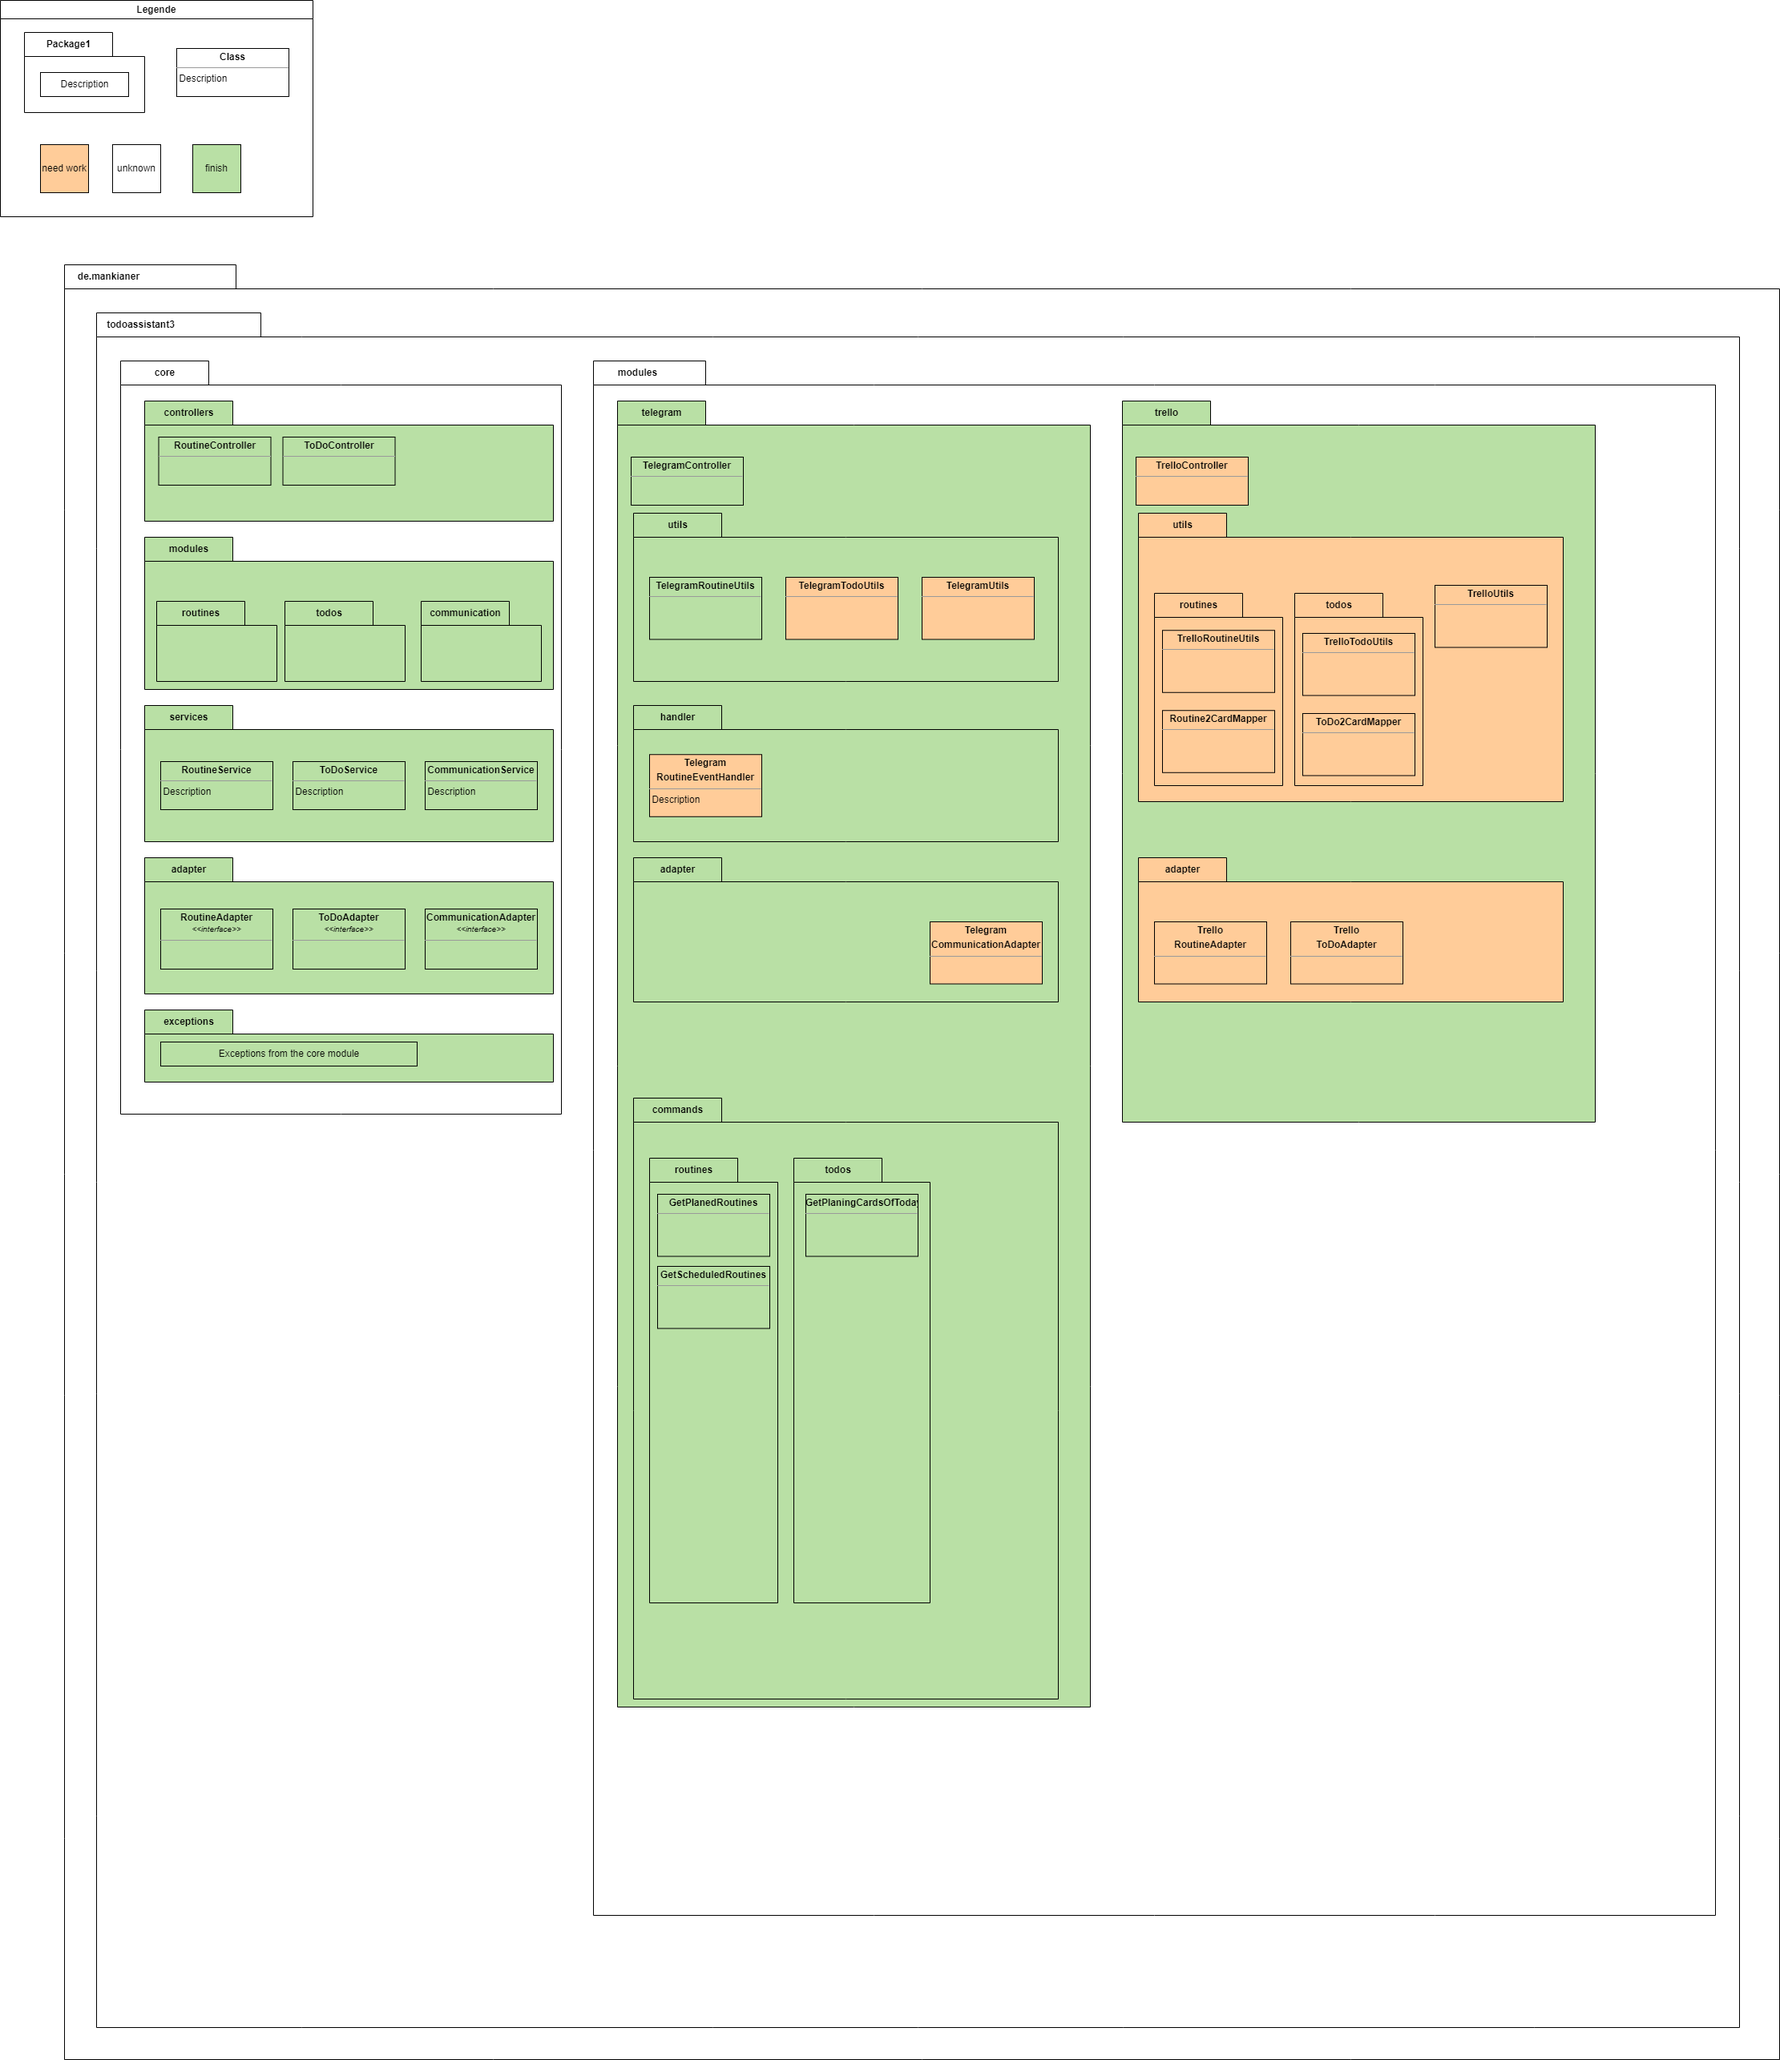
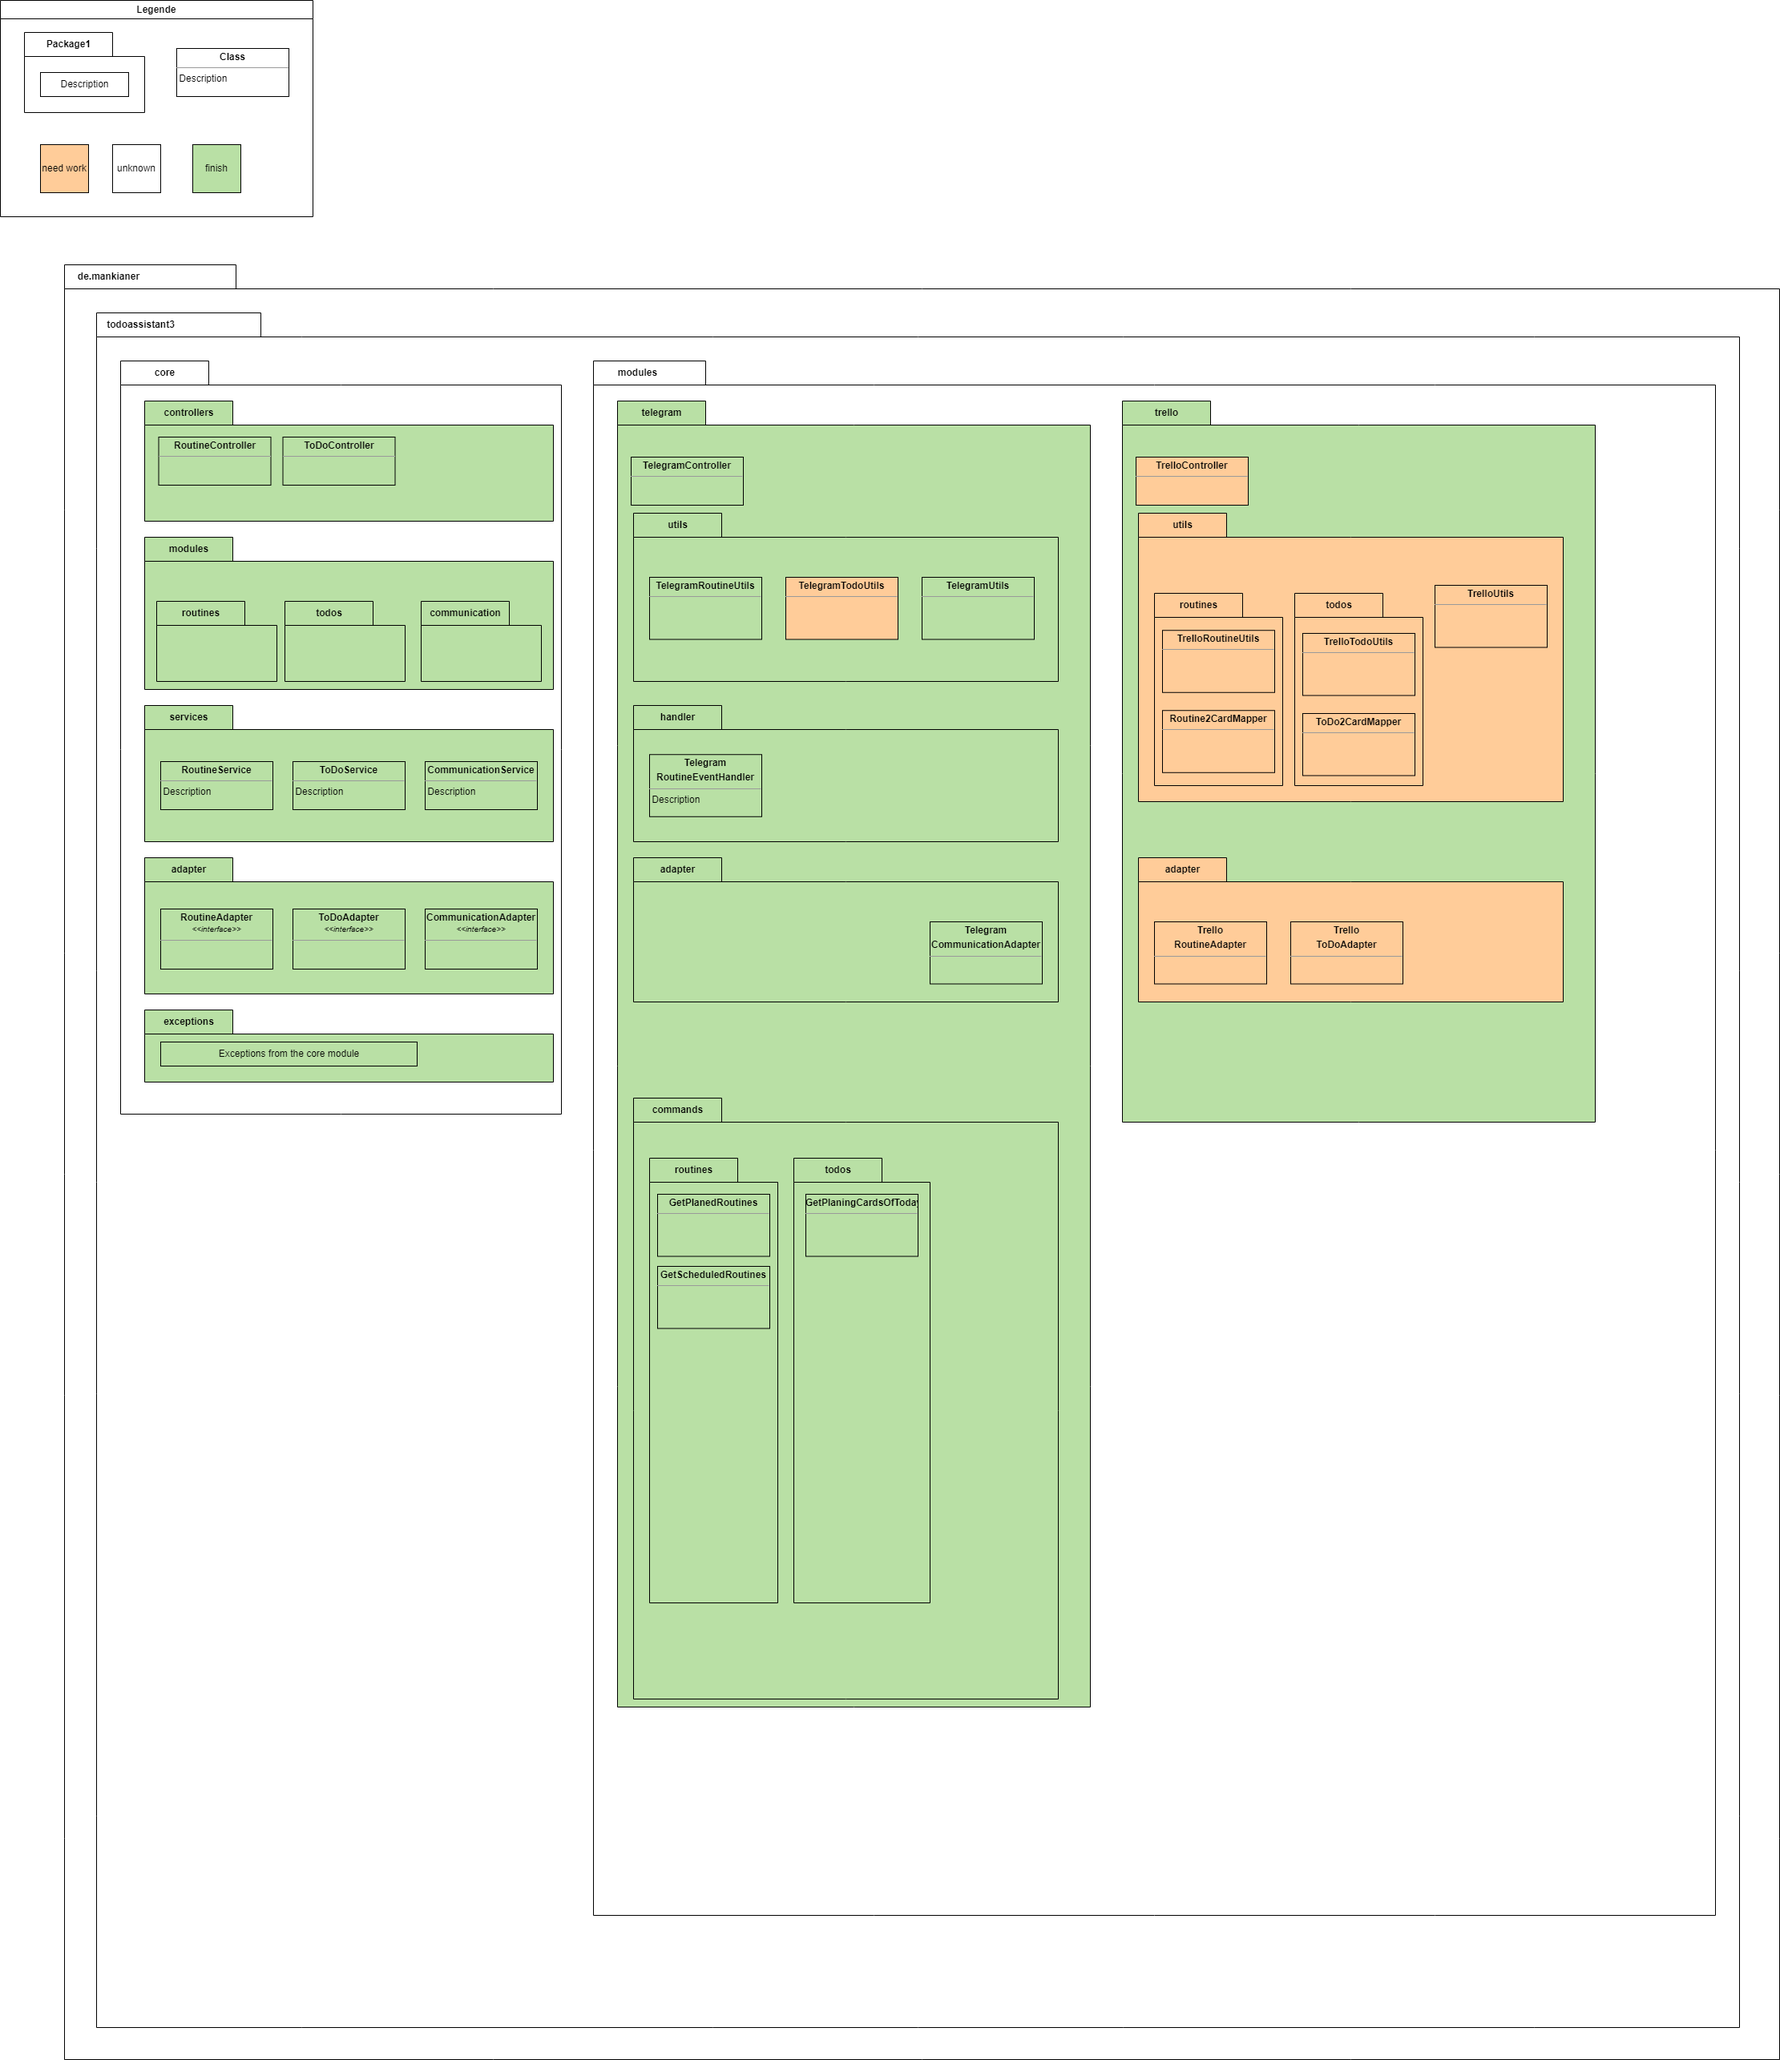
refactor Telegram-packages

Changed region(s): [[0.4971, 0.4356, 0.5903, 0.4979], [0.3417, 0.3423, 0.4349, 0.4045], [0.4971, 0.28, 0.5903, 0.3112]]

diff --git a/src/main/java/de/mankianer/todoassistant3/modules/telegram/TelegramController.java b/src/main/java/de/mankianer/todoassistant3/modules/telegram/TelegramController.java
@@ -2,22 +2,17 @@ package de.mankianer.todoassistant3.modules.telegram;
 
 import de.mankianer.mankianerstelegramspringstarter.TelegramService;
 import de.mankianer.mankianerstelegramspringstarter.commands.models.TelegramInUpdate;
-import de.mankianer.todoassistant3.core.adapter.CommunicationAdapter;
 import de.mankianer.todoassistant3.core.exceptions.CouldNotCreateException;
-import de.mankianer.todoassistant3.core.models.communication.Message;
-import de.mankianer.todoassistant3.core.models.routines.Routine;
 import de.mankianer.todoassistant3.core.models.todos.ToDo;
 import de.mankianer.todoassistant3.core.services.RoutineService;
 import de.mankianer.todoassistant3.core.services.ToDoService;
-import de.mankianer.todoassistant3.modules.telegram.commands.routines.GetPlanedRoutines;
+import de.mankianer.todoassistant3.modules.telegram.handler.TelegramRoutineEventHandler;
 import org.springframework.stereotype.Component;
-import org.telegram.telegrambots.meta.api.methods.send.SendMessage;
 
 import javax.annotation.PostConstruct;
-import java.util.List;
 
 @Component
-public class TelegramController implements CommunicationAdapter {
+public class TelegramController {
 
     private TelegramService telegramService;
     private ToDoService toDoService;
@@ -32,7 +27,7 @@ public class TelegramController implements CommunicationAdapter {
     @PostConstruct
     public void init() {
         telegramService.setMessageHandlerFunction(this::handleIncomingMessage);
-        routineService.setRoutineUpdateToScheduleListener(this::handleRoutinesUpdateToScheduleEvent);
+        routineService.setRoutineUpdateToScheduleListener(TelegramRoutineEventHandler.handleRoutinesUpdateToScheduleEvent(telegramService, routineService));
     }
 
     public void handleIncomingMessage(TelegramInUpdate update) {
@@ -43,37 +38,6 @@ public class TelegramController implements CommunicationAdapter {
         } catch (CouldNotCreateException e) {
             update.reply("ToDo konnte nicht erstellt werden: \n" + e.getMessage());
         }
-    }
-
-    private Message<org.telegram.telegrambots.meta.api.objects.Message> telegramToMessage(org.telegram.telegrambots.meta.api.objects.Message message) {
-        if(message == null) return null;
-        Message<org.telegram.telegrambots.meta.api.objects.Message> previous = telegramToMessage(message.getReplyToMessage());
-
-        return Message.<org.telegram.telegrambots.meta.api.objects.Message>builder()
-                .text(message.getText())
-                .previous(previous)
-                .build();
-    }
-
-    @Override
-    public void sendMessage(Message message){
-
-        SendMessage sendMessage = new SendMessage();
-        sendMessage.setText(message.getText());
-        sendMessage.enableMarkdownV2(message.isMarkDown());
-
-        if(message.getPrevious() != null) {
-            if(message.getPrevious().getContext() instanceof org.telegram.telegrambots.meta.api.objects.Message) {
-                org.telegram.telegrambots.meta.api.objects.Message telegramMessage = (org.telegram.telegrambots.meta.api.objects.Message) message.getPrevious().getContext();
-                sendMessage.setReplyToMessageId(telegramMessage.getMessageId());
-            }
-        }
-
-        telegramService.broadcastMessage(sendMessage);
-    }
-
-    private void handleRoutinesUpdateToScheduleEvent(List<Routine> routines) {
-        telegramService.broadcastMessageAsMarkdown(GetPlanedRoutines.getMessageText(routines, routineService.getUrlToData()));
     }
 
 }

diff --git a/src/main/java/de/mankianer/todoassistant3/modules/telegram/adapter/TelegramCommunicationAdapter.java b/src/main/java/de/mankianer/todoassistant3/modules/telegram/adapter/TelegramCommunicationAdapter.java
@@ -1,0 +1,34 @@
+package de.mankianer.todoassistant3.modules.telegram.adapter;
+
+import de.mankianer.mankianerstelegramspringstarter.TelegramService;
+import de.mankianer.todoassistant3.core.adapter.CommunicationAdapter;
+import de.mankianer.todoassistant3.core.models.communication.Message;
+import org.springframework.beans.factory.annotation.Autowired;
+import org.springframework.stereotype.Component;
+import org.telegram.telegrambots.meta.api.methods.send.SendMessage;
+
+@Component
+public class TelegramCommunicationAdapter implements CommunicationAdapter {
+
+    private TelegramService telegramService;
+
+    public TelegramCommunicationAdapter(@Autowired TelegramService telegramService) {
+        this.telegramService = telegramService;
+    }
+
+    @Override
+    public void sendMessage(Message message) {
+        SendMessage sendMessage = new SendMessage();
+        sendMessage.setText(message.getText());
+        sendMessage.enableMarkdownV2(message.isMarkDown());
+
+        if(message.getPrevious() != null) {
+            if(message.getPrevious().getContext() instanceof org.telegram.telegrambots.meta.api.objects.Message) {
+                org.telegram.telegrambots.meta.api.objects.Message telegramMessage = (org.telegram.telegrambots.meta.api.objects.Message) message.getPrevious().getContext();
+                sendMessage.setReplyToMessageId(telegramMessage.getMessageId());
+            }
+        }
+
+        telegramService.broadcastMessage(sendMessage);
+    }
+}

diff --git a/src/main/java/de/mankianer/todoassistant3/modules/telegram/commands/todos/GetPlaningCardsOfToday.java b/src/main/java/de/mankianer/todoassistant3/modules/telegram/commands/todos/GetPlaningCardsOfToday.java
@@ -2,7 +2,6 @@ package de.mankianer.todoassistant3.modules.telegram.commands.todos;
 
 import de.mankianer.mankianerstelegramspringstarter.TelegramService;
 import de.mankianer.mankianerstelegramspringstarter.commands.models.TelegramCommand;
-import de.mankianer.mankianerstelegramspringstarter.commands.models.TelegramConversation;
 import de.mankianer.mankianerstelegramspringstarter.commands.models.TelegramInMessage;
 import de.mankianer.todoassistant3.Utils;
 import de.mankianer.todoassistant3.core.models.todos.ToDoStatus;
@@ -42,15 +41,5 @@ public class GetPlaningCardsOfToday extends TelegramCommand {
     }
 
     message.replyAsMarkdown(planingCardsWithDueTodayAsMessageWithMarkdown);
-
-    TelegramConversation conversation = TelegramConversation.builder("wie geht's?", message.getMessage().getChatId())
-            .on("gut").then("super").finish()
-            .on("ok").then("ok")
-                              .on("und dir?").then("Mir geht es gut!")
-            .finishToMain()
-            .on("schlecht").then("oh nein").finish()
-            .build();
-
-    getTelegramService().startConversation(conversation);
   }
 }

diff --git a/src/main/java/de/mankianer/todoassistant3/modules/telegram/handler/TelegramRoutineEventHandler.java b/src/main/java/de/mankianer/todoassistant3/modules/telegram/handler/TelegramRoutineEventHandler.java
@@ -1,0 +1,16 @@
+package de.mankianer.todoassistant3.modules.telegram.handler;
+
+import de.mankianer.mankianerstelegramspringstarter.TelegramService;
+import de.mankianer.todoassistant3.core.models.routines.Routine;
+import de.mankianer.todoassistant3.core.services.RoutineService;
+import de.mankianer.todoassistant3.modules.telegram.commands.routines.GetPlanedRoutines;
+
+import java.util.List;
+import java.util.function.Consumer;
+
+public class TelegramRoutineEventHandler {
+
+    public static Consumer<List<Routine>> handleRoutinesUpdateToScheduleEvent(TelegramService telegramService, RoutineService routineService) {
+        return routines -> telegramService.broadcastMessageAsMarkdown(GetPlanedRoutines.getMessageText(routines, routineService.getUrlToData()));
+    }
+}

diff --git a/src/main/java/de/mankianer/todoassistant3/modules/telegram/utils/TelegramUtils.java b/src/main/java/de/mankianer/todoassistant3/modules/telegram/utils/TelegramUtils.java
@@ -1,0 +1,15 @@
+package de.mankianer.todoassistant3.modules.telegram.utils;
+
+import org.telegram.telegrambots.meta.api.objects.Message;
+
+public class TelegramUtils {
+    public static de.mankianer.todoassistant3.core.models.communication.Message<Message> TELEGRAM_TO_MESSAGE(Message message) {
+        if (message == null) return null;
+        de.mankianer.todoassistant3.core.models.communication.Message<Message> previous = TELEGRAM_TO_MESSAGE(message.getReplyToMessage());
+
+        return de.mankianer.todoassistant3.core.models.communication.Message.<Message>builder()
+                .text(message.getText())
+                .previous(previous)
+                .build();
+    }
+}
